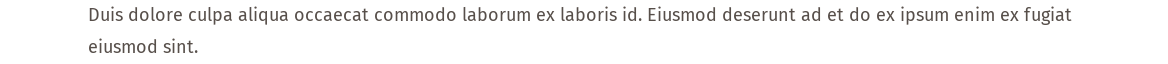
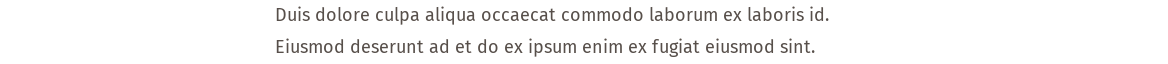
better image slice for posts

Changed region(s): [[0.0616, 0.0938, 0.9247, 0.375], [0.2158, 0.5938, 0.7089, 0.875], [0.0616, 0.6562, 0.1849, 0.8438]]

diff --git a/.slicemachine/assets/slices/PostImage/index.stories.js b/.slicemachine/assets/slices/PostImage/index.stories.js
@@ -1,0 +1,26 @@
+import MyComponent from './../../../../slices/PostImage';
+import SliceZone from 'vue-slicezone'
+
+export default {
+  title: 'slices/PostImage'
+}
+
+
+export const _DefaultSlice = () => ({
+  components: {
+    MyComponent,
+    SliceZone
+  },
+  methods: {
+    resolve() {
+      return MyComponent
+    }
+  },
+  data() {
+    return {
+      mock: {"variation":"default-slice","name":"Default slice","slice_type":"post_image","items":[],"primary":{"image":{"dimensions":{"width":3840,"height":960},"alt":"Placeholder image","copyright":null,"url":"https://images.unsplash.com/photo-1448932223592-d1fc686e76ea?w=3840&h=960&fit=crop","small":{"dimensions":{"width":768,"height":512},"alt":"Placeholder image","copyright":null,"url":"https://images.unsplash.com/photo-1448932223592-d1fc686e76ea?w=768&h=512&fit=crop"}}},"id":"_DefaultSlice"}
+    }
+  },
+  template: '<SliceZone :slices="[mock]" :resolver="resolve" />'
+})
+_DefaultSlice.storyName = 'Default slice'

diff --git a/slices/PostImage/index.vue b/slices/PostImage/index.vue
@@ -1,5 +1,5 @@
 <template>
-  <section class="w-full my-6">
+  <figure class="w-full my-6 md:my-12">
     <nuxt-picture
       :alt="slice.primary.image.small.alt"
       :copyright="slice.primary.image.small.copyright"
@@ -20,12 +20,21 @@
       class="hidden md:block"
       loading="lazy"
     />
-  </section>
+
+    <figcaption
+      v-if="slice.primary.image.alt"
+      class="w-full mx-auto text-base max-w-[65ch] px-4 mt-1 sm:text-lg xl:text-xl"
+    >
+      <small class="text-sm text-gray-600">
+        {{ slice.primary.image.alt }}
+      </small>
+    </figcaption>
+  </figure>
 </template>
 
 <script>
   export default {
-    name: 'PostHero',
+    name: 'PostImage',
 
     props: {
       slice: {

diff --git a/pages/post/_uid.vue b/pages/post/_uid.vue
@@ -21,7 +21,7 @@
     </nav>
 
     <article class="pt-4">
-      <header class="w-full mx-auto max-w-5xl px-4 my-6 lg:my-12">
+      <header class="w-full mx-auto text-base max-w-[65ch] px-4 mt-6 mb-10 sm:text-lg lg:mt-8 lg:mb-16 xl:text-xl">
         <div class="-mx-3 my-2 lg:my-3">
           <nuxt-link
             v-for="tag in post.tags"

diff --git a/slices/PostCopy/index.vue b/slices/PostCopy/index.vue
@@ -2,7 +2,7 @@
   <prismic-rich-text
     :field="slice.primary.text"
     :html-serializer="htmlSerializer"
-    class="prose sm:prose-sm xl:prose-xl max-w-5xl px-4 mx-auto"
+    class="px-4 mx-auto max-w-[65ch] prose sm:prose-sm xl:prose-xl"
   />
 </template>
 

diff --git a/slices/index.js b/slices/index.js
@@ -1,4 +1,4 @@
 // This file is generated by Prismic local builder. Update with care!
 
 export { default as PostCopy } from './PostCopy'
-export { default as PostHero } from './PostHero'
+export { default as PostImage } from './PostImage'
